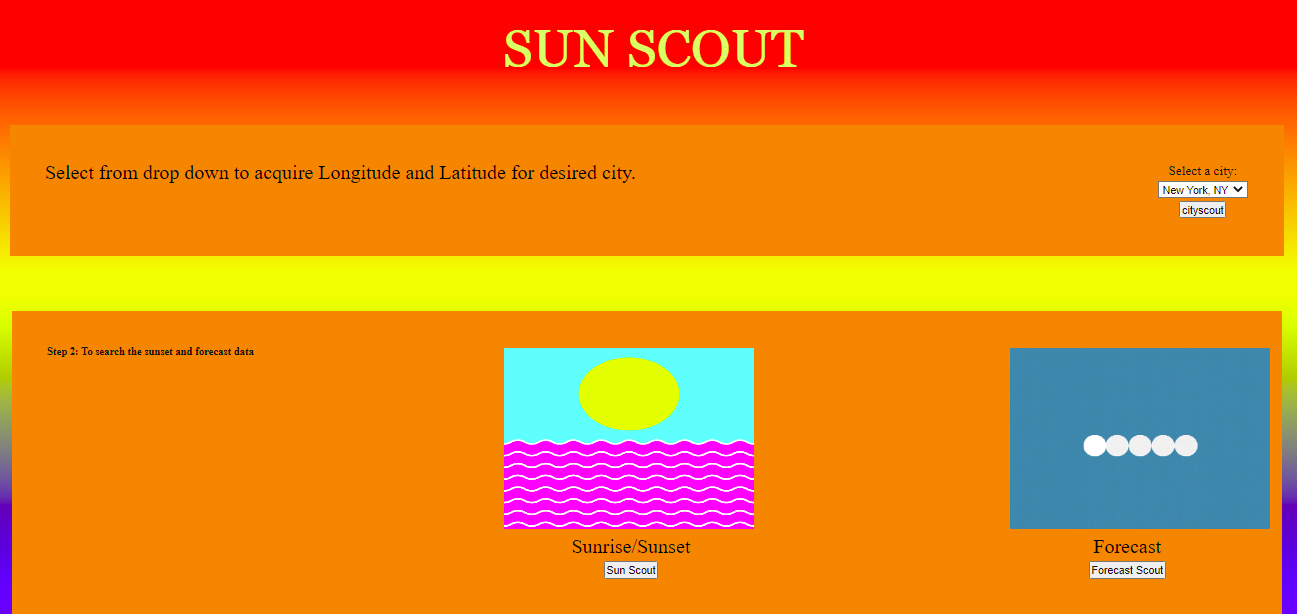
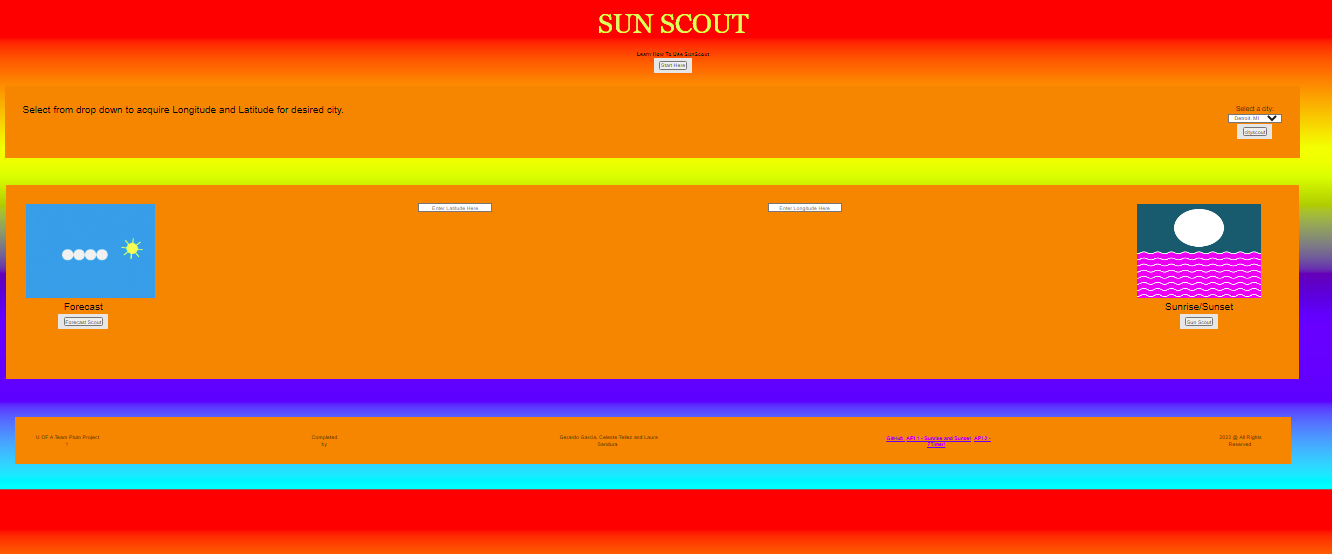
framework, modal, some html description changes, temp move of input boxes in html, js security fix plus notes

diff --git a/index.html b/index.html
@@ -3,47 +3,75 @@
   
 <head>
   <meta charset="UTF-8" />
+  <meta name="viewport" content="width=device-width, initial-scale=1">
   <title>Team Pluto Project1</title>
+  <link rel="stylesheet" href="https://unpkg.com/purecss@2.1.0/build/pure-min.css" integrity="sha384-yHIFVG6ClnONEA5yB5DJXfW2/KC173DIQrYoZMEtBvGzmf0PKiGyNEqe9N6BNDBH" crossorigin="anonymous">
+  <link rel="stylesheet" href="https://fonts.google.com/">
   <link rel="stylesheet" href="Assets/CSS/style.css"/>
 </head>
 
 <body>
   <header>SUN SCOUT</header>
+    <h2>Learn How To Use SunScout</h2>
+    <a element class = "pure-button"><button button class="button-foo" id="myBtn">Start Here</button></a>
+       <div id="myModal" class="modal">
+      <div class="modal-content">
+        <div class="modal-header">
+          <span class="close">&times;</span>
+          <h2>How to get started with SunScout</h2>
+        </div>
+        <div class="modal-body">
+          <p>STEP 1:</p>
+          <p>Select desired city on drop down list, click City Scout.</p>
+          <p>STEP 2:</p>
+          <p>To get sunrise, sunset, or forecast information for the day,</p>
+          <p>Click Sun Scout or Forecast Scout.</p>
+          <p>STEP 3</p>
+          <p>Plan your activities for the day!</p>
+        </div>
+        <div class="modal-footer">
+          <h3>Enjoy</h3>
+        </div>
+      </div>
+    </div>
   <section>
-    <p>Select from drop down to acquire Longitude and Latitude for desired city.</p>
+    <p>Select from drop down to acquire Longitude and Latitude and click for desired city.</p>
     <div> <label for="city">Select a city: </label>
-      <select name="city" id="city">
-        <option value="Detroit">Detroit, MI</option>   
-        <option value="Miami">Miami, FL</option>
-        <option value="New York">New York, NY</option>
-        <option value="Boston">Boston, MA</option>
-      </select>
-      <div><button id="cityscout">cityscout</button></div> 
+      <div id="mysearch" class="container"></div>
+        <select name="city" id="city">
+          <option value="Detroit">Detroit, MI</option>   
+         <option value="Miami">Miami, FL</option>
+         <option value="New York">New York, NY</option>
+         <option value="Boston">Boston, MA</option>
+       </select>
+      <div><a element class = "pure-button"><button button class="button-foo" id="cityscout">City Scout</button></a></div> 
     </div>
   </section>
   
   <main>
     <section>
-     <div id="mysearch" class="container">
-      <span id="Forecast"><img src="https://media3.giphy.com/media/QRhtqYeEywJI4/giphy.gif?cid=ecf05e473trxvtj6lo6hebwbmso7yiuyhi9apegxxlbw84ye&rid=giphy.gif&ct=g" alt="Forecast Image" style="width:110%;height:60%"></span>
-       <p>Forecast</p>
-       <div><button id="forecastscout">Forecast Scout</button></div>
+     <p>Once desired city is chosen, pick Forecast or Sun Scout Button.</p>
+     <div> <label for="myforecast"></label></div>
+      <div id="mysearch" class="container">
+        <span id="Forecast"><img src="https://media3.giphy.com/media/QRhtqYeEywJI4/giphy.gif?cid=ecf05e473trxvtj6lo6hebwbmso7yiuyhi9apegxxlbw84ye&rid=giphy.gif&ct=g" alt="Forecast Image" style="width:110%;height:60%"></span>
+          <p>Forecast</p>
+       <div><a element class = "pure-button"><button button class="button-foo" id="forecastscout">Forecast Scout</button></a></div>
      </div>
 
-     <div id="dailytime"><input placeholder="Enter Latitude Here"></div>
-     <div id="long"><input placeholder="Enter Longitude Here"></div>
+     <!--<div id="dailytime"><input placeholder="Enter Latitude Here"></div>-->
+     <!--<div id="long"><input placeholder="Enter Longitude Here"></div>-->
     
      <div id="Sunset" class="container">
       <span id="Sunrise"><img src="https://media2.giphy.com/media/3o6ZsWSWIkZYHLHTyM/giphy.gif?cid=ecf05e473blh5wmxnl1e7c2hl6dr40jzcce0ulgtfvpeu3kk&rid=giphy.gif&ct=g" alt="Sunrise and Sunset Image" style="width:77%;height:60%"> </span>
        <p>Sunrise/Sunset</p>
-       <div><button id="Sunscout">Sun Scout</button></div>
+       <div><a element class = "pure-button"><button button class="button-foo" id="Sunscout">Sun Scout</button></a></div>
      </div>
     </section>
   </main>
  
 <footer class= "footer">
   <section class="Recap">
-      <ul id="Credit">U OF A Team Pluto Project 1</ul>
+      <ul id="Credit">UOFA TeamPlutoProject1</ul>
         <ul>Completed by</ul> 
           <ul>Gerardo Garcia, Celeste Tellez and Laura Sandura</ul>
             <ul> 

diff --git a/Assets/JS/script.js b/Assets/JS/script.js
@@ -1,3 +1,20 @@
+var modal = document.getElementById("myModal");
+var btn = document.getElementById("myBtn");
+var span = document.getElementsByClassName("close")[0];
+btn.onclick = function() {
+  modal.style.display = "block";
+}
+span.onclick = function() {
+  modal.style.display = "none";
+}
+
+window.onclick = function(event) {
+  if (event.target == modal) {
+    modal.style.display = "none";
+  }
+}
+
+
 var citySelector = document.getElementById("city"); //this variable is used in the getCityScout function. I am grabbing the value of the city option dropdown box depending on what is selected.
 var cityScout = document.getElementById("cityscout"); //added an id to the cityscout button in HTML. This variable is called later for the event listener on line 75.
 var latInput = document.getElementById("lat");
@@ -72,13 +89,44 @@ function getSunriseScout(){
   // getApi(cityObj)
 }
 
+//1 - transfer data needed to local storage with set item
 
 cityScout.addEventListener("click", getCityScout);
 cityScout.addEventListener("click", getSunriseScout);
 
+//2 - get data from local storage with get item AND then also display the data
 
+//LOCAL STORAGE EXAMPLE EQUATION 
+//from https://blog.logrocket.com/storing-retrieving-javascript-objects-localstorage/
+//setItem() – the setItem method is used to add data to a web storage object. It takes in two arguments, a key and value pair, window. ...
+//getItem() – the getItem method returns the value of the key name that's passed to it, such as window. localStorage. .
 
+//from google w3 https://www.w3schools.com/jsref/prop_win_localstorage.asp
+//*Save Data to Local Storage. 
+//localStorage.setItem(key, value);
+//console.log()
+//*Read Data from Local Storage. 
+//let lastname = localStorage.getItem(key);
+//console.log()
+//*Remove Data from Local Storage. localStorage.removeItem(key);
+//console.log()
+//Remove All (Clear Local Storage) localStorage.clear();
+//console.log()
 
+//SAMPLE FUNCTION FROM w3 schools
+var a = 3;
+function test(a) {
+  let result;
+  if (a > 0) {
+    result = 'positive';
+  } else {
+    result = 'NOT positive';
+  }
+  return result;
+}
+
+console.log(test(-5));
+// expected output: "NOT positive"
 
 
 

diff --git a/Assets/CSS/style.css b/Assets/CSS/style.css
@@ -8,7 +8,10 @@
     flex-wrap: wrap;
     font-size: 16px;
     color: rgb(21, 21, 22);
-    
+  }
+
+  h2 {
+    font-family: 'Roboto', sans-serif;
   }
   
   a {
@@ -69,7 +72,47 @@
     text-indent: 3%;
     padding: 30px;
     color: #E7FF85;
-    font-size: 22pt;
+    font-size: 18pt;
     text-indent: 2%;
     justify-content: center;
+}
+
+.modal {
+  display: none;
+  justify-content: center;
+  align-items: center;
+  position: relative;
+  padding-top: 100px;
+  width: 50%;
+  bottom: 5px;
+  z-index: 1;
+  overflow: auto;
+  }
+
+.modal-content {
+  background-color: #fefefe;
+  margin: 50 auto;
+}
+
+.close {
+  color:  rgb(0,0,0);
+  float: center;
+  font-size: 40px;
+  font-weight: bold;
+}
+
+.modal-header, .modal-footer {
+  padding: 4px 20px;
+  background-color:  #f8842d;
+  color: white;
+  font-size: large;
+}
+
+.modal-body {padding: 8px 20px;}
+
+@media screen and (max-width: 1125px) {header, main, section {
+      background: rgb(160, 241, 29);
+      flex-direction: wrap;
+      color:blue;
+  }
 }

diff --git a/README.md b/README.md
@@ -21,8 +21,7 @@ Additional Expectations:
     
     Git Repository Site that shows finalized project results: https://laurabora118.github.io/Project1TeamPluto/
 
-    ![Wire Frame](/Assets/images/website1.PNG)
-    ![Wire Frame](/Assets/images/website2.PNG)
+    ![Site Example](\\Assets\images\website1.PNG "Mock up example")
 
 Extra's:
     Created forwarded website to github repo:   www.sunsetscout.co
@@ -37,3 +36,7 @@ References:
     3 - Giphy images used from below sites:
         -https://giphy.com/gifs/illustration-sunset-sunrise-3o6ZsWSWIkZYHLHTyM
         -https://giphy.com/gifs/weather-whats-QRhtqYeEywJI4
+    
+    4 - https://www.w3schools.com/howto/howto_css_modals.asp
+
+    5 - CSS Framework: https://purecss.io/
